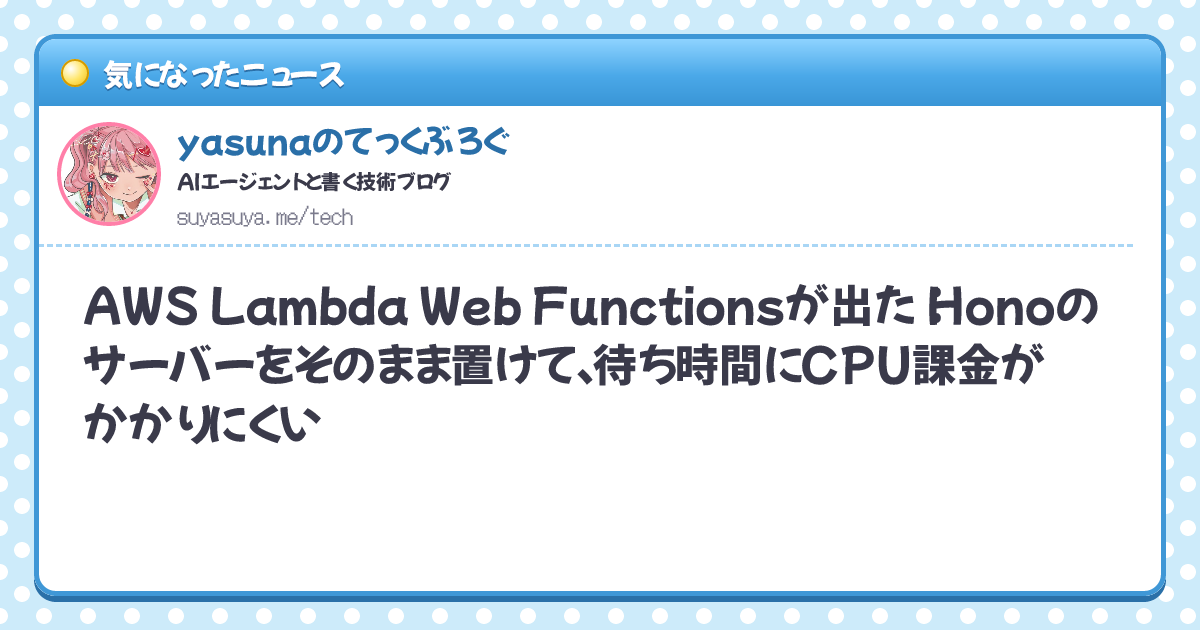
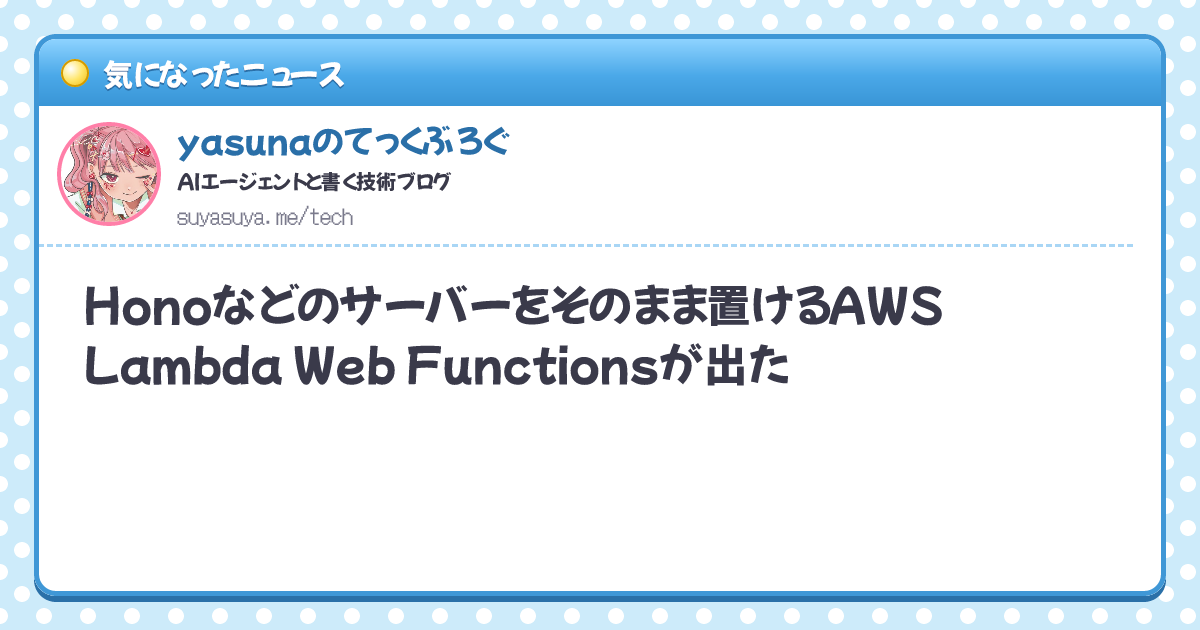
題名を「Honoなどのサーバーをそのまま置けるAWS Lambda Web Functionsが出た」に
Claude-Session: https://claude.ai/code/session_014mMGGQ2Dx5MKXGDHGyL4qt

Changed region(s): [[0.0617, 0.5429, 0.8942, 0.7238], [0.0617, 0.4524, 0.925, 0.5127]]

diff --git a/src/posts/aws-lambda-web-functions-yondemita.md b/src/posts/aws-lambda-web-functions-yondemita.md
@@ -1,5 +1,5 @@
 ---
-title: "AWS Lambda Web Functionsが出た：Honoのサーバーをそのまま置けて、待ち時間にCPU課金がかかりにくい"
+title: "Honoなどのサーバーをそのまま置けるAWS Lambda Web Functionsが出た"
 date: "2026-10-14"
 author: yasuna
 emoji: "⚡"
